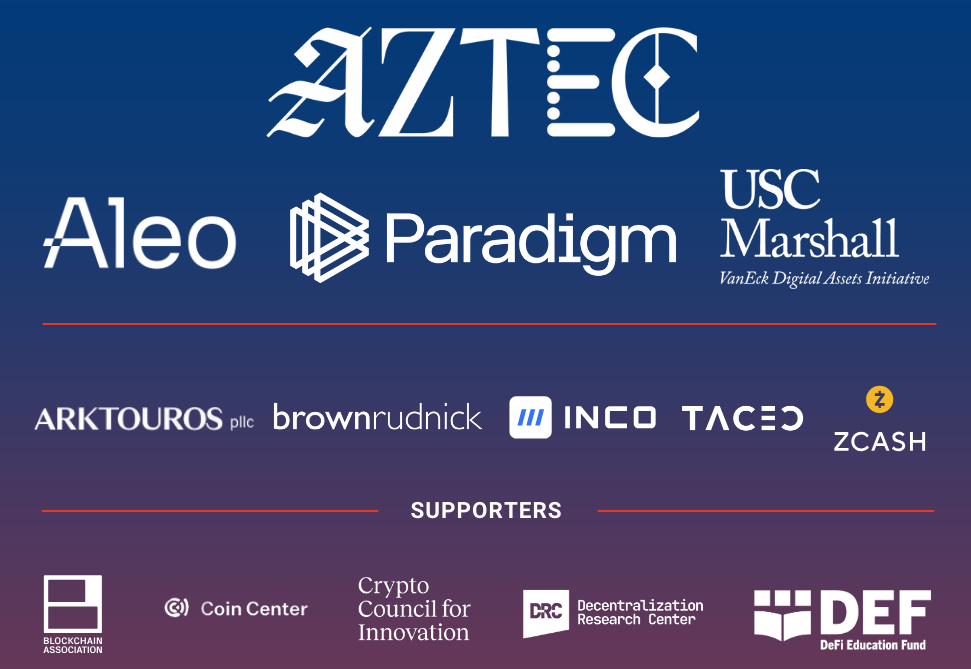
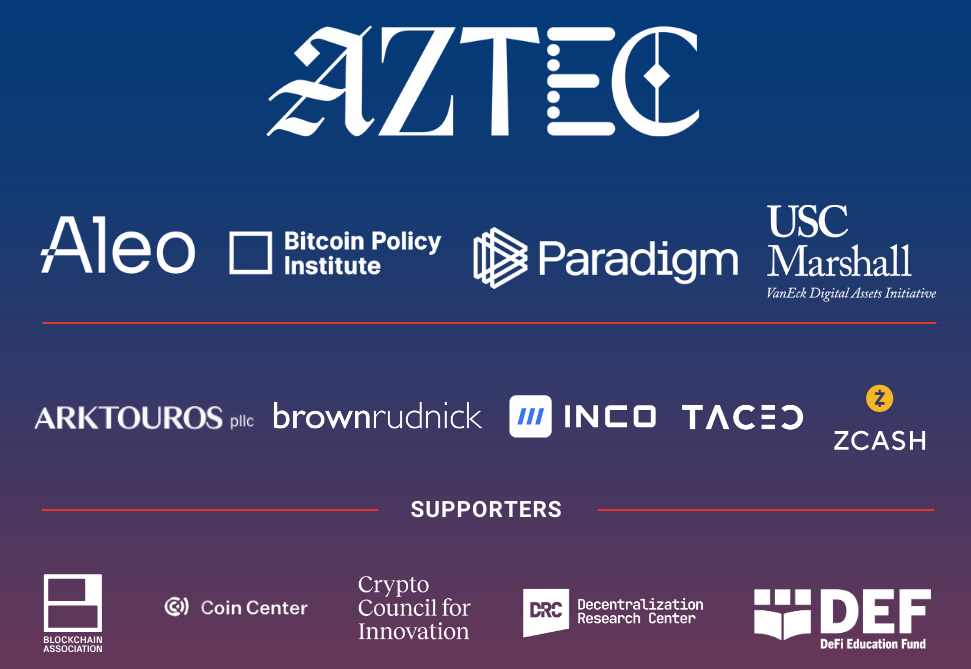
updated sponsor graphic

diff --git a/index.html b/index.html
@@ -282,15 +282,17 @@
       <!-- Hotspots sized with percentages so they scale with the image -->
       <!-- Row 1: Aztec -->
       <a class="sponsor-hotspot" href="https://aztec.network/" target="_blank" rel="noopener" aria-label="Aztec"
-         style="left:15.5%;top:5.7%;width:68%;height:18%" title="Aztec"></a>
+         style="left:15.5%;top:4%;width:68%;height:18%" title="Aztec"></a>
 
       <!-- Row 2: Aleo, Paradigm, USC Marshall VEDA -->
       <a class="sponsor-hotspot" href="https://www.aleo.org/" target="_blank" rel="noopener" aria-label="Aleo"
-         style="left:5.2%;top:31.4%;width:25.8%;height:12%" title="Aleo"></a>
-      <a class="sponsor-hotspot" href="https://www.paradigm.xyz/" target="_blank" rel="noopener" aria-label="Paradigm"
-         style="left:31%;top:30%;width:36%;height:12%" title="Paradigm"></a>
+         style="left:9%;top:31%;width:15%;height:12%" title="Aleo"></a>
+      <a class="sponsor-hotspot" href="https://www.btcpolicy.org/" target="_blank" rel="noopener" aria-label="Bitcoin Policy Institute"
+         style="left:27%;top:31%;width:18%;height:12%" title="Aleo"></a>
+		<a class="sponsor-hotspot" href="https://www.paradigm.xyz/" target="_blank" rel="noopener" aria-label="Paradigm"
+         style="left:48%;top:31%;width:25%;height:12%" title="Paradigm"></a>
       <a class="sponsor-hotspot" href="https://www.marshall.usc.edu/institutes-and-centers/vaneck-digital-assets-initiative" target="_blank" rel="noopener" aria-label="USC Marshall VanEck Digital Assets Initiative"
-         style="left:69%;top:25%;width:22%;height:19.4%" title="USC Marshall – VEDA Initiative"></a>
+         style="left:75%;top:30%;width:15%;height:15%" title="USC Marshall – VEDA Initiative"></a>
 
       <!-- Row 3: Arktouros, Brown Rudnick, INCO, TACEO, Zcash Foundation -->
       <a class="sponsor-hotspot" href="https://www.arktouros.co/" target="_blank" rel="noopener" aria-label="Arktouros PLLC"
@@ -305,11 +307,11 @@
       <a class="sponsor-hotspot" href="https://theblockchainassociation.org/" target="_blank" rel="noopener" aria-label="Blockchain Association"
          style="left:8%;top:82.2%;width:10%;height:12%" title="Decentralization Research Center"></a>
 	<a class="sponsor-hotspot" href="https://thedrcenter.org/" target="_blank" rel="noopener" aria-label="Decentralization Research Center"
-         style="left:22%;top:82.2%;width:15%;height:12%" title="Decentralization Research Center"></a>
+         style="left:22%;top:82.2%;width:15%;height:18%" title="Decentralization Research Center"></a>
       <a class="sponsor-hotspot" href="https://www.defieducationfund.org/" target="_blank" rel="noopener" aria-label="DeFi Education Fund"
          style="left:38%;top:80.7%;width:10%;height:18%" title="DeFi Education Fund"></a>
       <a class="sponsor-hotspot" href="https://www.coincenter.org/" target="_blank" rel="noopener" aria-label="Coin Center"
-         style="left:52%;top:83.7%;width:20%;height:10.5%" title="Coin Center"></a>
+         style="left:52%;top:83.7%;width:20%;height:15%" title="Coin Center"></a>
       <a class="sponsor-hotspot" href="https://cryptoforinnovation.org/" target="_blank" rel="noopener" aria-label="Crypto Council for Innovation"
          style="left:72%;top:80.7%;width:18%;height:18%" title="Crypto Council for Innovation"></a>
     </div>
